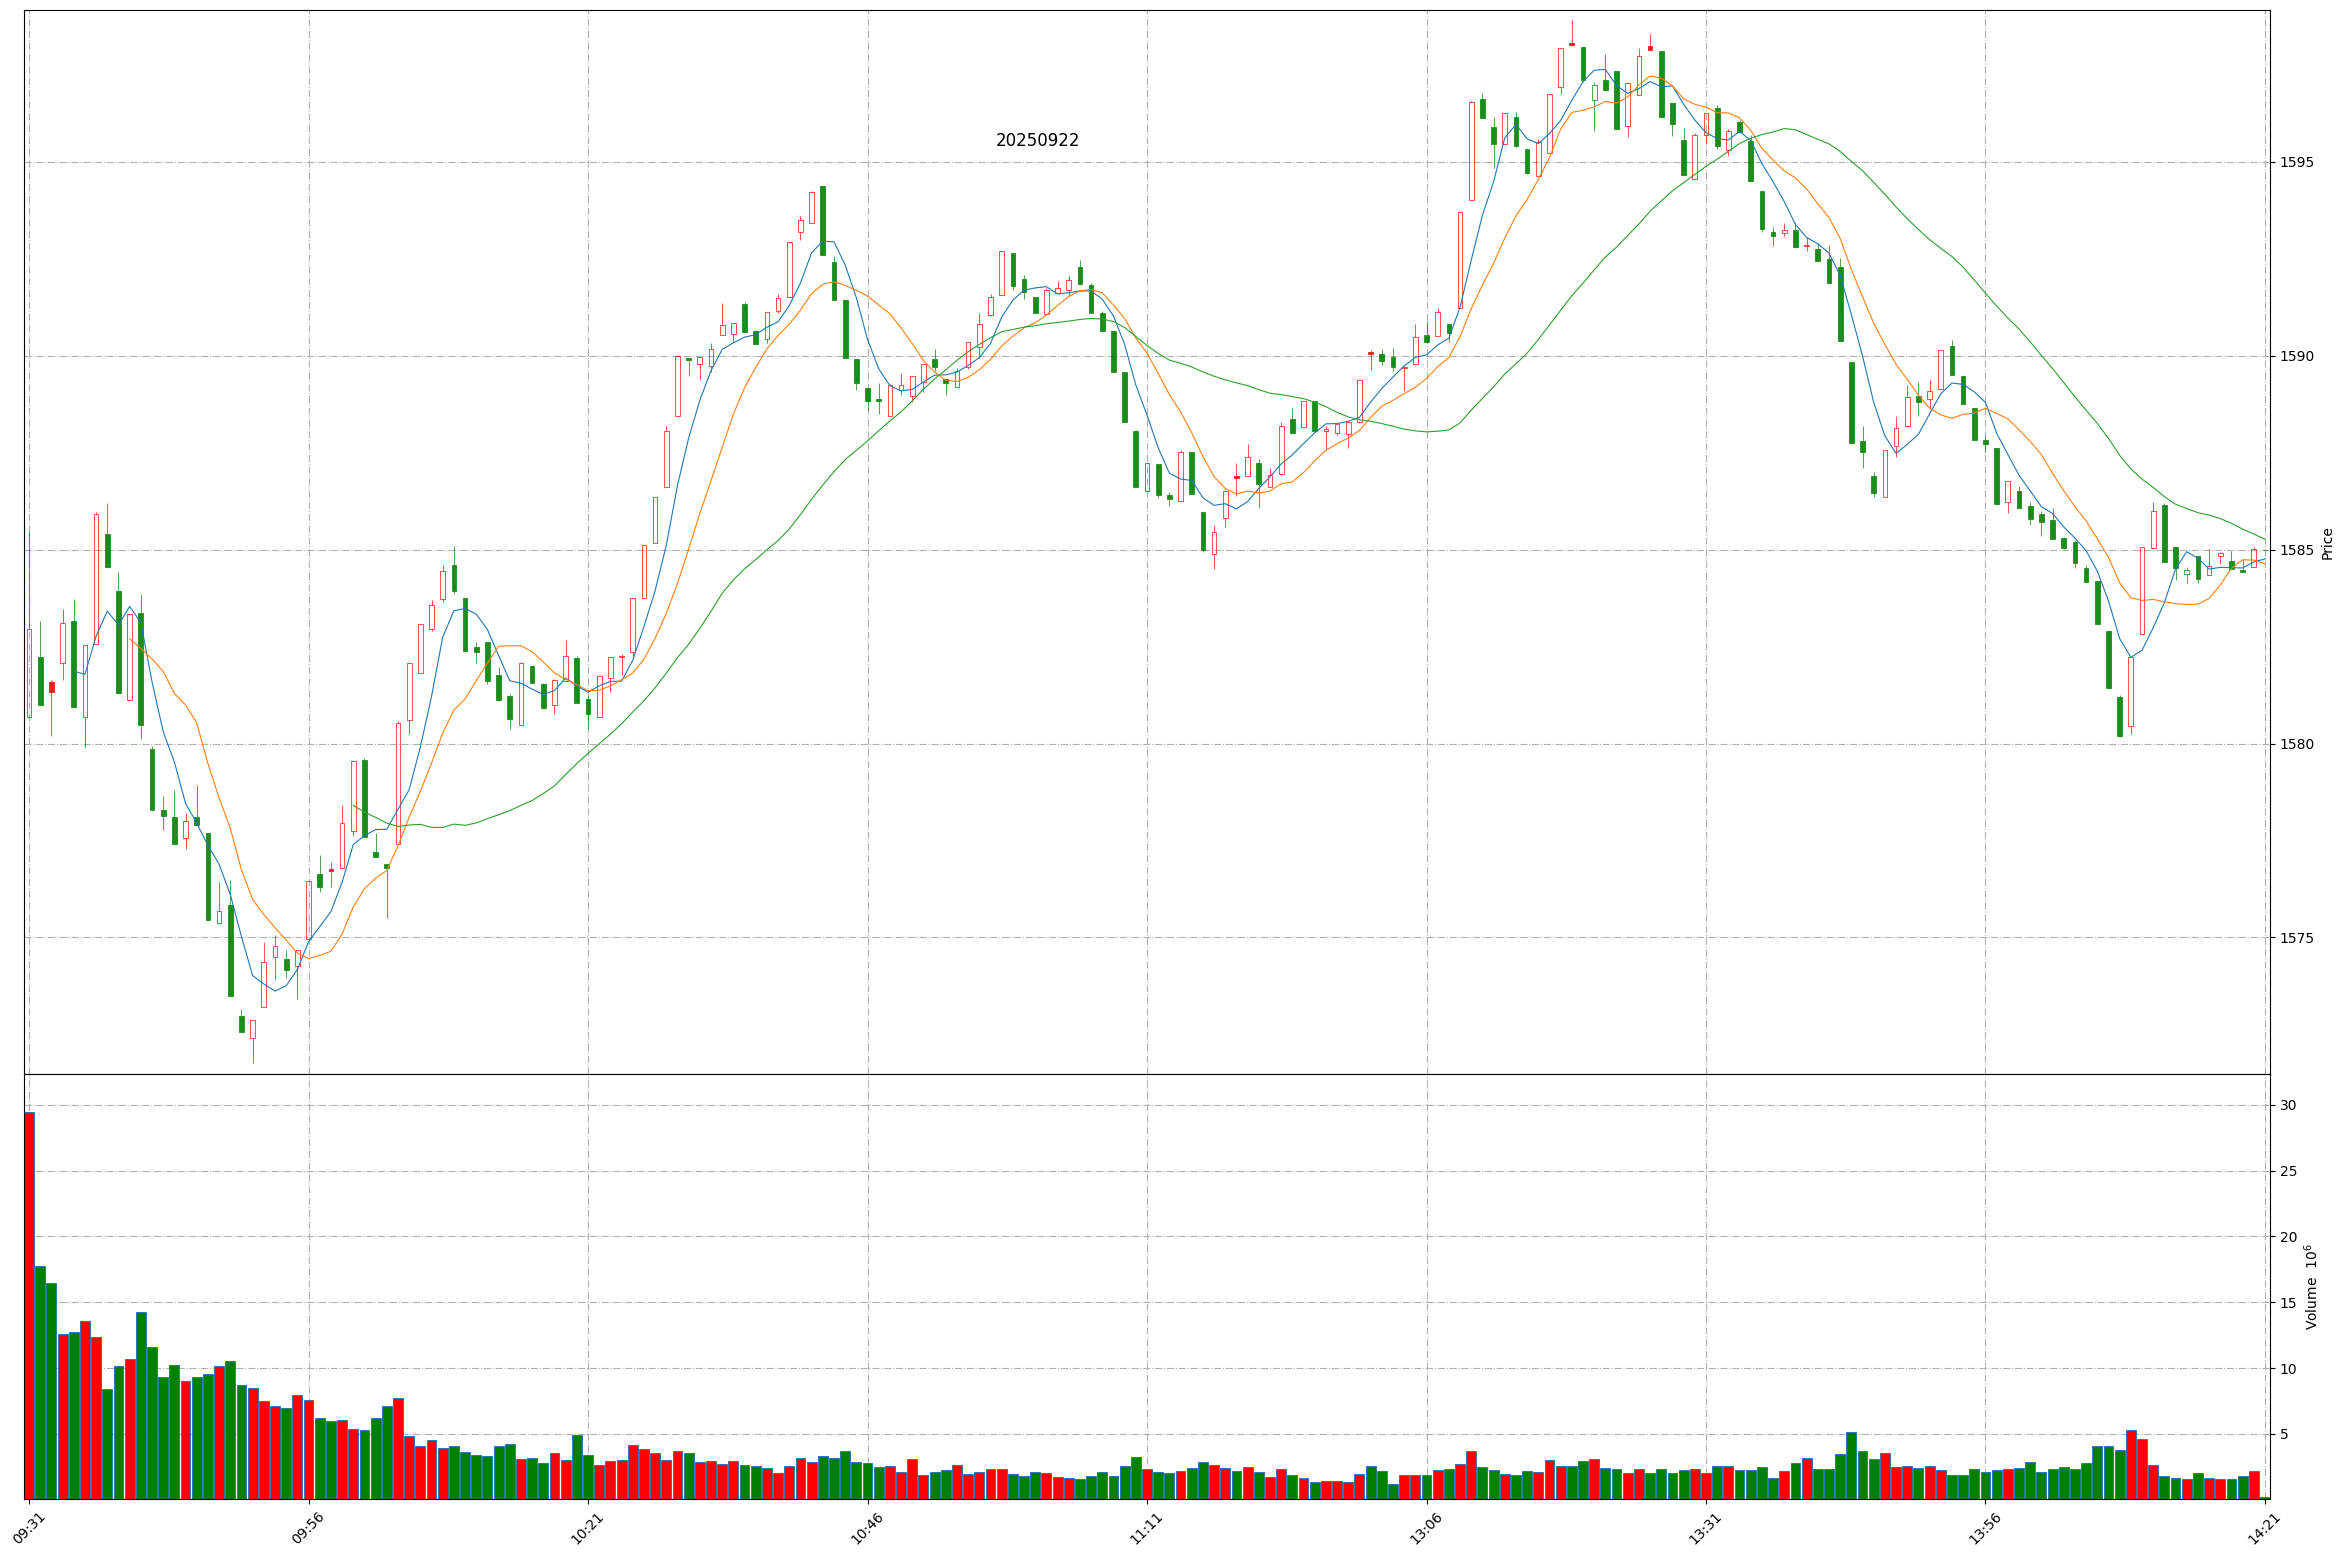
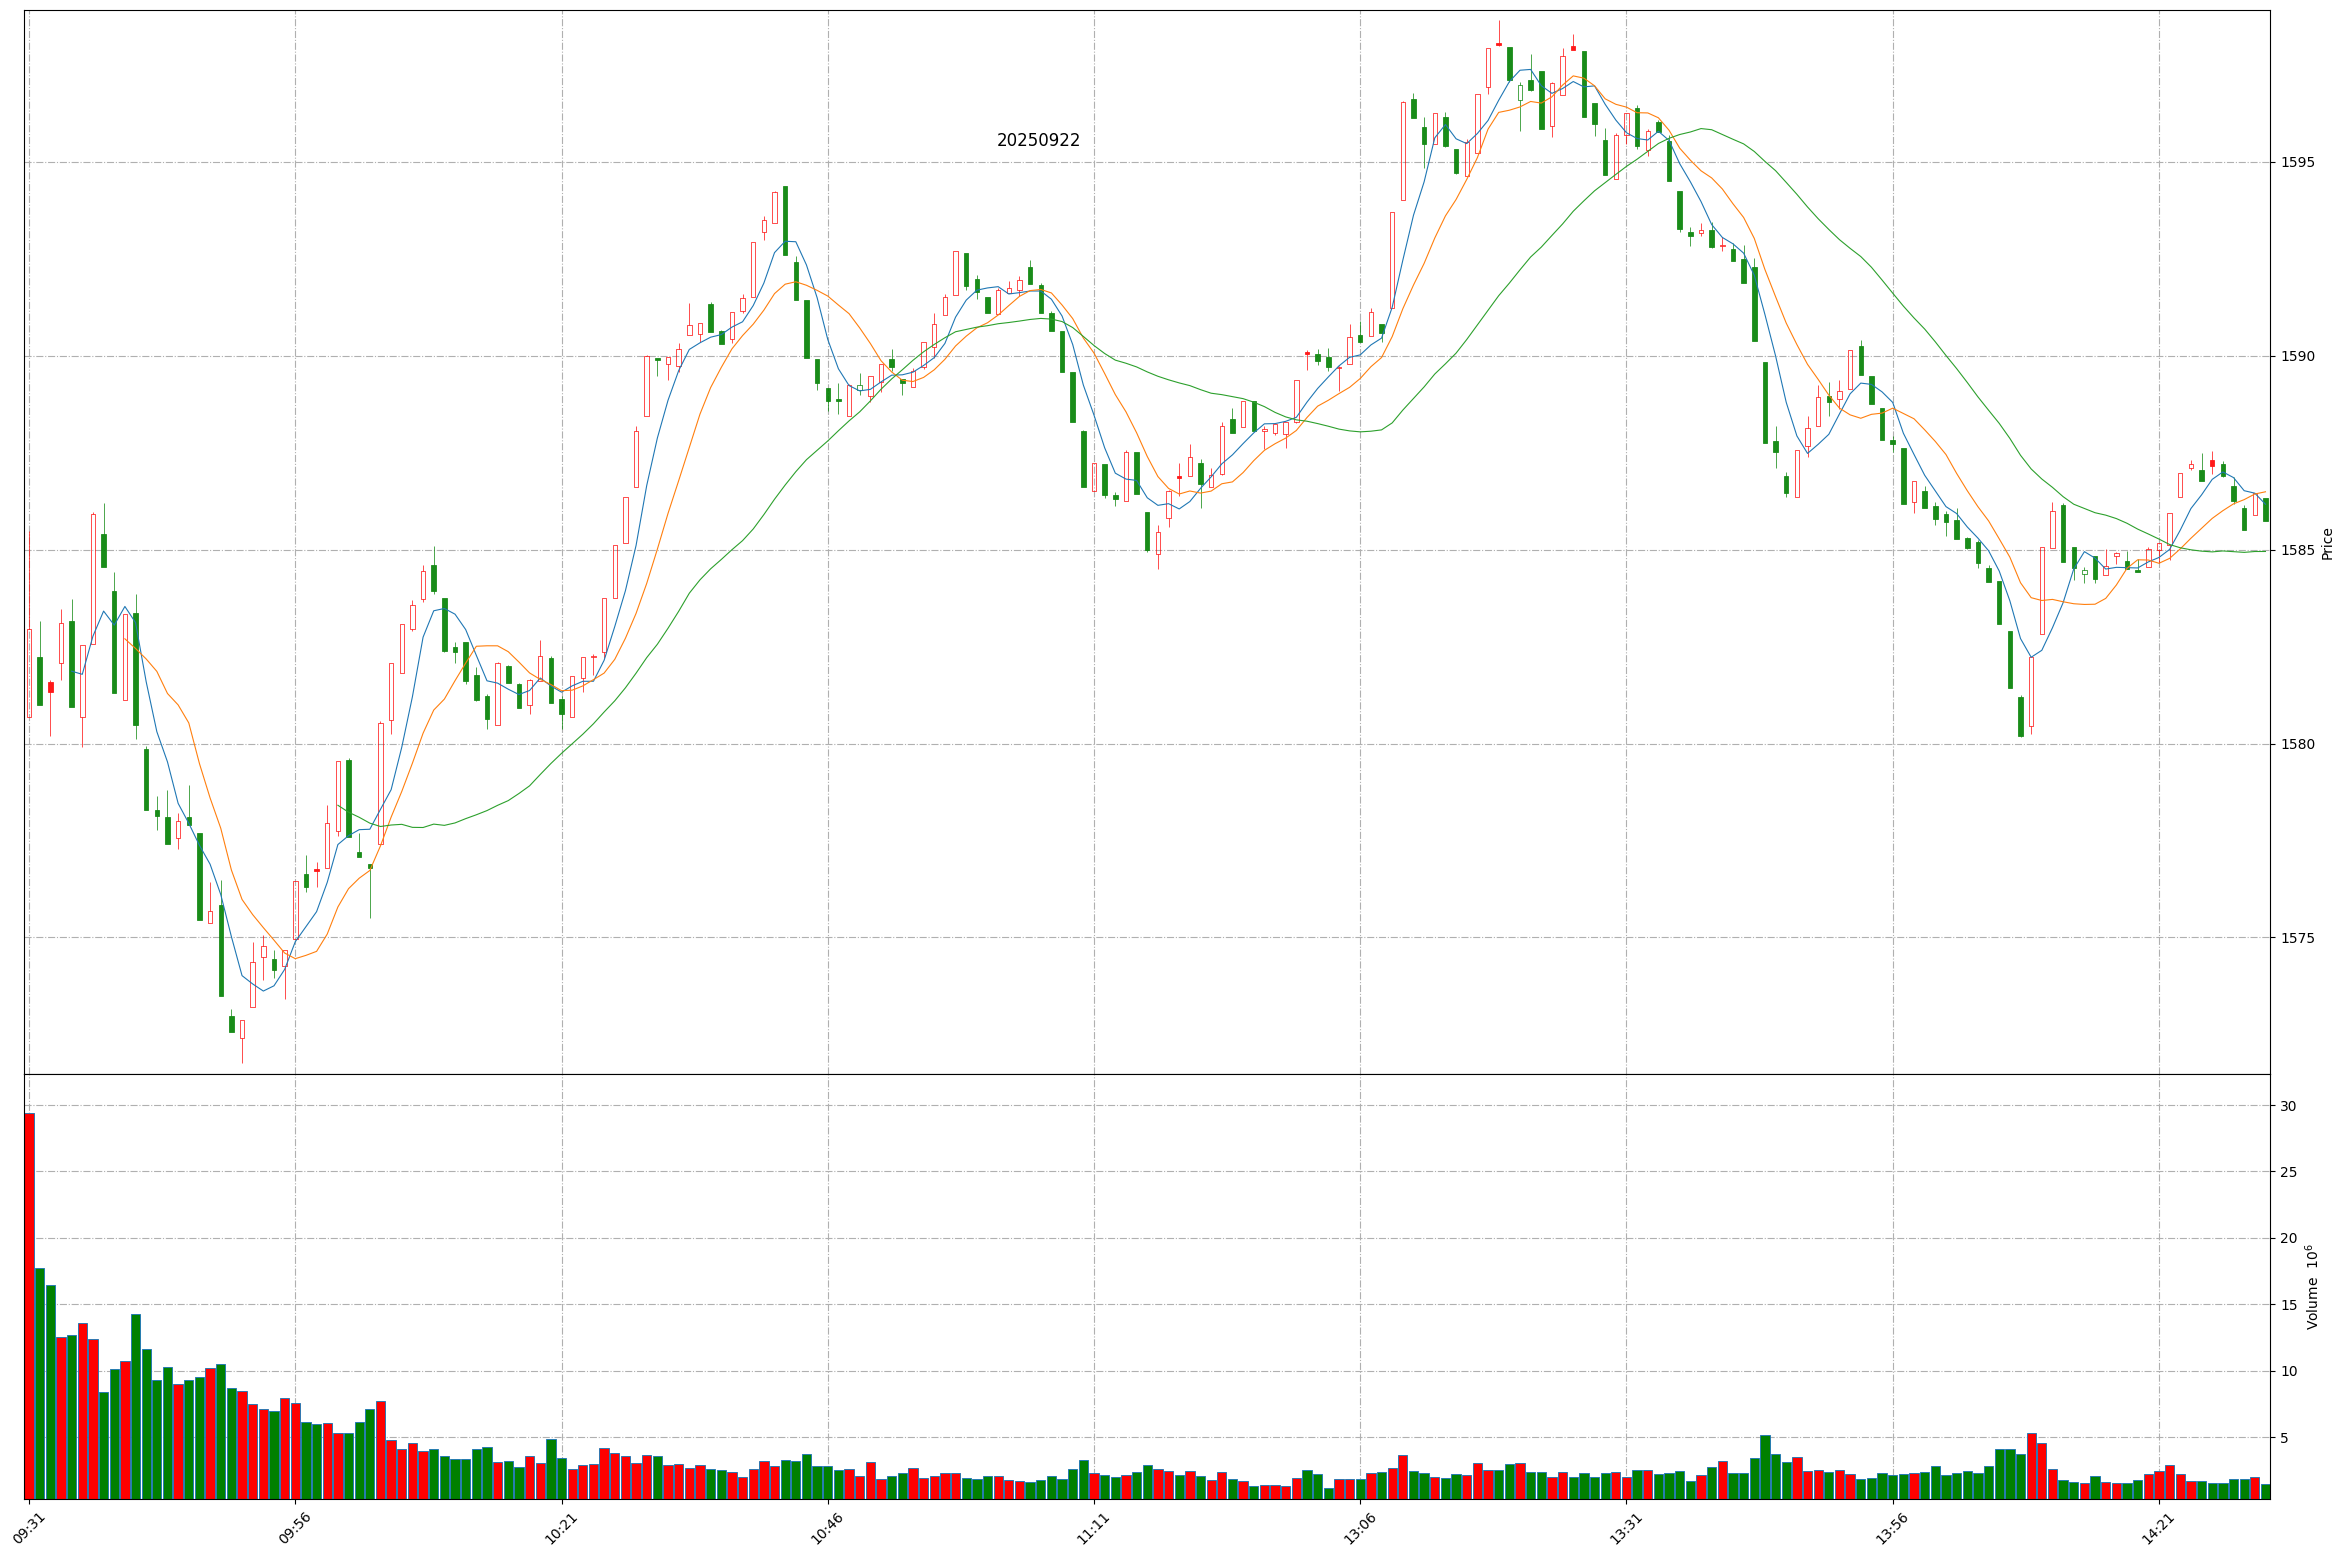
Github action update at 2025-09-22 14:30:49.

diff --git a/README.md b/README.md
@@ -1,11 +1,11 @@
 
 # Daily-A-share-market-quotes 每日 A 股指数（5min 更新）- 20250922
 
-### 上证指数 20250922 14:20
+### 上证指数 20250922 14:30
 ![](./fig/2025/9/20250922-sh000001.png)
 
-### 深证成指 20250922 14:20
+### 深证成指 20250922 14:30
 ![](./fig/2025/9/20250922-sz399001.png)
 
-### 北证50 20250922 14:20
+### 北证50 20250922 14:30
 ![](./fig/2025/9/20250922-bj899050.png)
